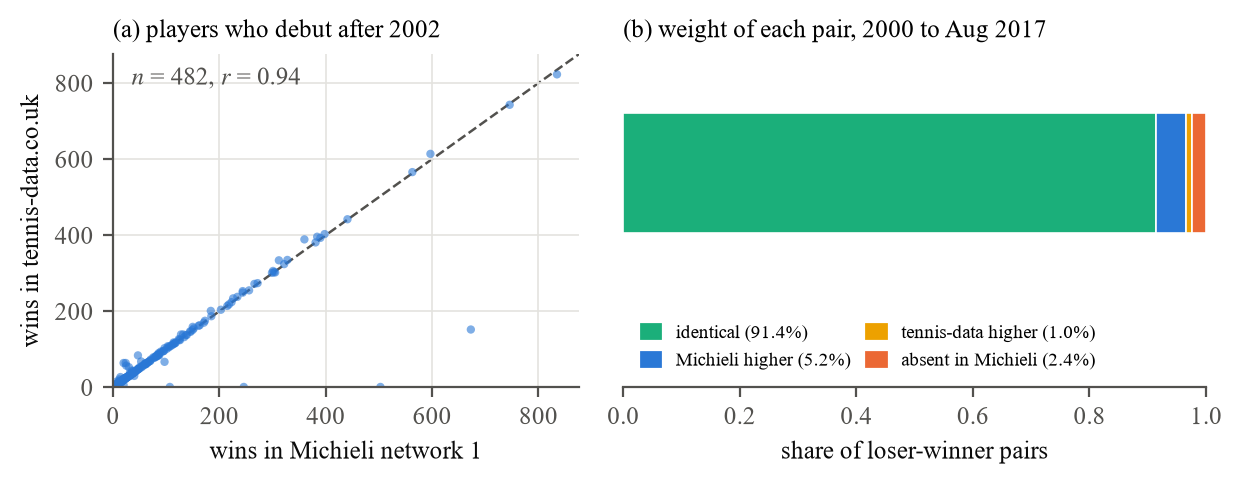
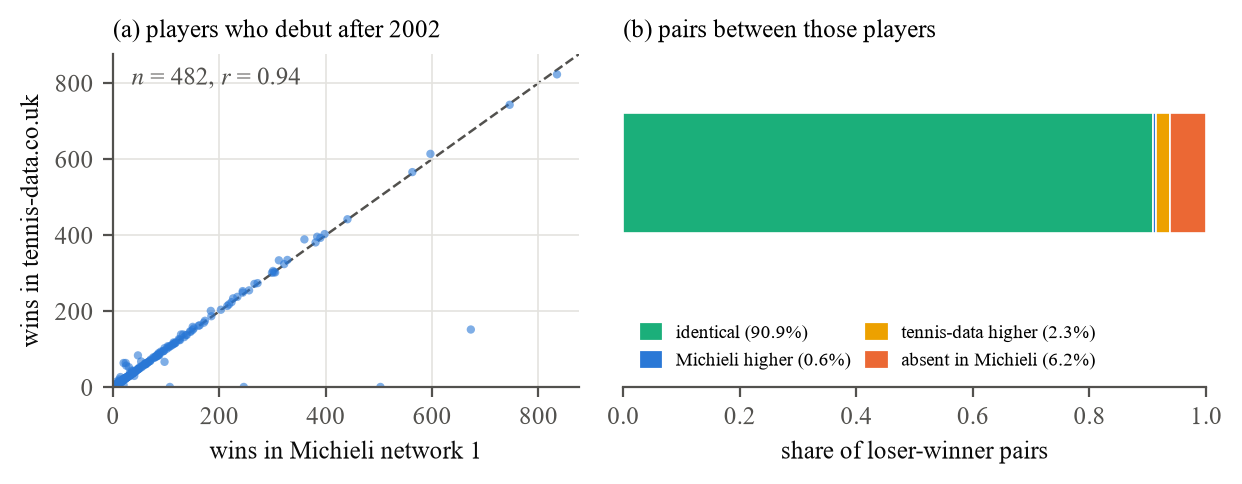
fix(validity): compare pair weights only between whole-career players
Network 1 has no dates and starts in 1968, so the weight of a pair includes matches before 2000
that tennis-data does not cover. Restrict the pair comparison to pairs between players with no match
before 2003 (9,968 pairs): 90.9% identical, 6.2% absent from Michieli, 2.3% and 0.6% differ in
either direction. Update the figure panel and the text.

diff --git a/report/main.tex b/report/main.tex
@@ -96,7 +96,7 @@ Guided by course slide L01, we trade omission against commission errors. Restric
 Table~\ref{tab:reproduction} compares our pipeline against figures published by Michieli~\cite{michieli2018}. Across networks M1, M3, and M4, our computations reproduce published metrics almost exactly: M1 largest strongly connected component contains 2,428 players, average geodesic distances match within 0.01 hops (3.47 against 3.48 in M1, 3.34 in M3, 3.63 against 3.64 in M4), and degree assortativities agree closely ($-0.004$ against $-0.008$ in M3, 0.272 in M4). Furthermore, directed PageRank on M1 yields the identical top ten players reported in the paper (Connors, Lendl, Federer, McEnroe). The only discrepancy lies in average clustering: Michieli reports 0.07 on M3, whereas standard NetworkX formulas yield $C = 0.311$ (and transitivity $T = 0.355$). No standard local or global clustering definition produces 0.07 on this graph, suggesting an unstated normalization or disconnected-node artifact in the original MATLAB scripts.
 
 \paragraph{Cross-source consistency.}
-Because Jeff Sackmann's repository is no longer publicly maintained, we cross-validated \texttt{tennis-data.co.uk} against M1 over their common window (ATP main-draw matches, January 2000 to August 2017). Of 32,297 loser-winner pairs, 97.6\% appear in M1 and 91.4\% with the same number of wins (Figure~\ref{fig:sources}b); where the counts differ, M1 is usually the higher (5.2\% of pairs against 1.0\%). Of 1,360 players, 1,350 (99.3\%) match M1 directly, and the other ten differ by surname transliteration. For the 482 players whose whole career falls in the window, the wins in the two sources correlate at $r = 0.94$ (Figure~\ref{fig:sources}a). The outliers share an abbreviated name (``Surname I.'') with an earlier player, as Becker B. does.
+Sackmann's repository is no longer public, so we cross-validated \texttt{tennis-data.co.uk} against M1 over their common window (ATP main draw, January 2000 to August 2017). Of 32,297 loser-winner pairs, 97.6\% appear in M1. M1 has no dates and starts in 1968, so wins are compared only for the 482 players whose whole career falls in the window: their wins in the two sources correlate at $r = 0.94$ (Figure~\ref{fig:sources}a), and 90.9\% of the 9,968 pairs between them have the same number of wins (Figure~\ref{fig:sources}b). Of the rest, 2.3\% have more wins in tennis-data, 0.6\% in M1, and 6.2\% are absent from M1. Of 1,360 players, 1,350 (99.3\%) match M1 directly, and the other ten differ by surname transliteration. The outliers share an abbreviated name (``Surname I.'') with an earlier player, as Becker B. does.
 
 \paragraph{Sensitivity to cleaning choices.}
 We reran H1, H3, and H4 changing one choice at a time: dropping the 3,559 retirements, keeping the 672 walkovers, or merging carpet with hard courts (Table~\ref{tab:sensitivity}). Every H3 and H4 verdict holds at the 5\% level. H1 is the fragile one: the top-ten share is higher in 2007-2018 in every variant, but $p$ falls to 0.036 without retirements and 0.053 with walkovers, so ``not supported'' rests on a borderline value.
@@ -115,7 +115,7 @@ Data obtained from \texttt{tennis-data.co.uk} and Google Drive are pinned by SHA
 \begin{figure}[t]
 \centering
 \includegraphics[width=\textwidth]{fig_sources.pdf}
-\caption{\texttt{tennis-data.co.uk} against Michieli's M1 over their common window. (a) Wins of the ATP players whose first match in \texttt{tennis-data.co.uk} is after 2002, with the identity line dashed. (b) Loser-winner pairs by how their number of wins compares with M1.}
+\caption{\texttt{tennis-data.co.uk} against Michieli's M1 over their common window. (a) Wins of the ATP players whose first match in \texttt{tennis-data.co.uk} is after 2002, with the identity line dashed. (b) Loser-winner pairs between those players, by how their number of wins compares with M1.}
 \label{fig:sources}
 \end{figure}
 

diff --git a/src/tennis_networks/source_check.py b/src/tennis_networks/source_check.py
@@ -8,7 +8,7 @@ The two sources overlap on ATP main-draw matches from January 2000 to August 201
 their whole career lies inside the window.
 
 Outputs:
-    results/tables/td_michieli_pairs.csv     agreement on the loser-winner pairs of tennis-data
+    results/tables/td_michieli_pairs.csv     agreement on the loser-winner pairs between whole-career players
     results/tables/td_michieli_players.csv   wins of each such player in the two sources
 """
 
@@ -25,9 +25,28 @@ def common_window(matches):
     return matches[(matches["tour"] == "ATP") & (matches["date"] <= WINDOW_END)]
 
 
+def whole_career_players(atp):
+    """Lower-case names of the players whose first match in tennis-data is on or after DEBUT_AFTER."""
+    names = pd.concat(
+        [
+            atp[["winner", "date"]].set_axis(["player", "date"], axis=1),
+            atp[["loser", "date"]].set_axis(["player", "date"], axis=1),
+        ]
+    )
+    names["player"] = names["player"].str.lower()
+    debut = names.groupby("player")["date"].min()
+    return debut[debut >= DEBUT_AFTER].index
+
+
 def pair_agreement(atp, michieli):
-    """Loser-winner pairs of tennis-data by how their number of wins compares with network 1."""
+    """Loser-winner pairs between whole-career players, by how their wins in tennis-data compare with network 1.
+
+    Network 1 has no dates and starts in 1968: weights are comparable only when both players
+    have no match before the window.
+    """
+    career = whole_career_players(atp)
     ours = atp.assign(source=atp["loser"].str.lower(), target=atp["winner"].str.lower())
+    ours = ours[ours["source"].isin(career) & ours["target"].isin(career)]
     ours = ours.groupby(["source", "target"]).size().rename("tennis_data").reset_index()
     ref = michieli.assign(source=michieli["source"].str.lower(), target=michieli["target"].str.lower())
     ref = ref.groupby(["source", "target"], as_index=False)["weight"].sum()  # names that differ only in case
@@ -44,19 +63,11 @@ def pair_agreement(atp, michieli):
 
 
 def player_wins(atp, michieli):
-    """Wins of the players who debut after DEBUT_AFTER, in tennis-data and in network 1."""
-    names = pd.concat(
-        [
-            atp[["winner", "date"]].set_axis(["player", "date"], axis=1),
-            atp[["loser", "date"]].set_axis(["player", "date"], axis=1),
-        ]
-    )
-    names["player"] = names["player"].str.lower()
-    debut = names.groupby("player")["date"].min()
+    """Wins of the whole-career players, in tennis-data and in network 1."""
     wins_td = atp.groupby(atp["winner"].str.lower()).size().rename("wins_tennis_data")
     wins_m = michieli.groupby(michieli["target"].str.lower())["weight"].sum().rename("wins_michieli")
-    both = pd.concat([wins_td, wins_m], axis=1).join(debut.rename("debut"), how="inner").dropna()
-    both = both[both["debut"] >= DEBUT_AFTER].drop(columns="debut")
+    both = pd.concat([wins_td, wins_m], axis=1).dropna()
+    both = both[both.index.isin(whole_career_players(atp))]
     return both.rename_axis("player").reset_index()
 
 

diff --git a/tests/test_source_check.py b/tests/test_source_check.py
@@ -13,6 +13,9 @@ def atp_matches():
         ("Ddd D.", "Aaa A.", "2007-03-01"),
         ("Ddd D.", "Aaa A.", "2008-03-01"),
         ("Eee E.", "Ccc C.", "2009-03-01"),
+        # Old has a match before 2003: their pairs have a Michieli weight from earlier years and are left out.
+        ("Old O.", "Zzz Z.", "2001-03-01"),
+        ("Old O.", "Bbb B.", "2008-03-01"),
     ]
     df = pd.DataFrame(rows, columns=["winner", "loser", "date"])
     df["date"] = pd.to_datetime(df["date"])
@@ -31,7 +34,7 @@ def michieli_wins():
     )
 
 
-def test_pair_agreement_classifies_every_pair():
+def test_pair_agreement_classifies_pairs_between_whole_career_players():
     out = pair_agreement(atp_matches(), michieli_wins()).set_index("outcome")
     assert out["pairs"].to_dict() == {
         "identical": 1,

diff --git a/src/tennis_networks/report_assets.py b/src/tennis_networks/report_assets.py
@@ -631,7 +631,7 @@ def figure_sources():
     handles = [plt.Rectangle((0, 0), 1, 1, color=colors[o]) for o in shares.index]
     labels = [f"{o} ({100 * s:.1f}%)" for o, s in shares.items()]
     ax_pairs.legend(handles, labels, loc="lower left", ncol=2, fontsize=7, columnspacing=0.8, handlelength=1)
-    ax_pairs.set_title("(b) weight of each pair, 2000 to Aug 2017", loc="left")
+    ax_pairs.set_title("(b) pairs between those players", loc="left")
     fig.tight_layout()
     save(fig, "fig_sources")
 
